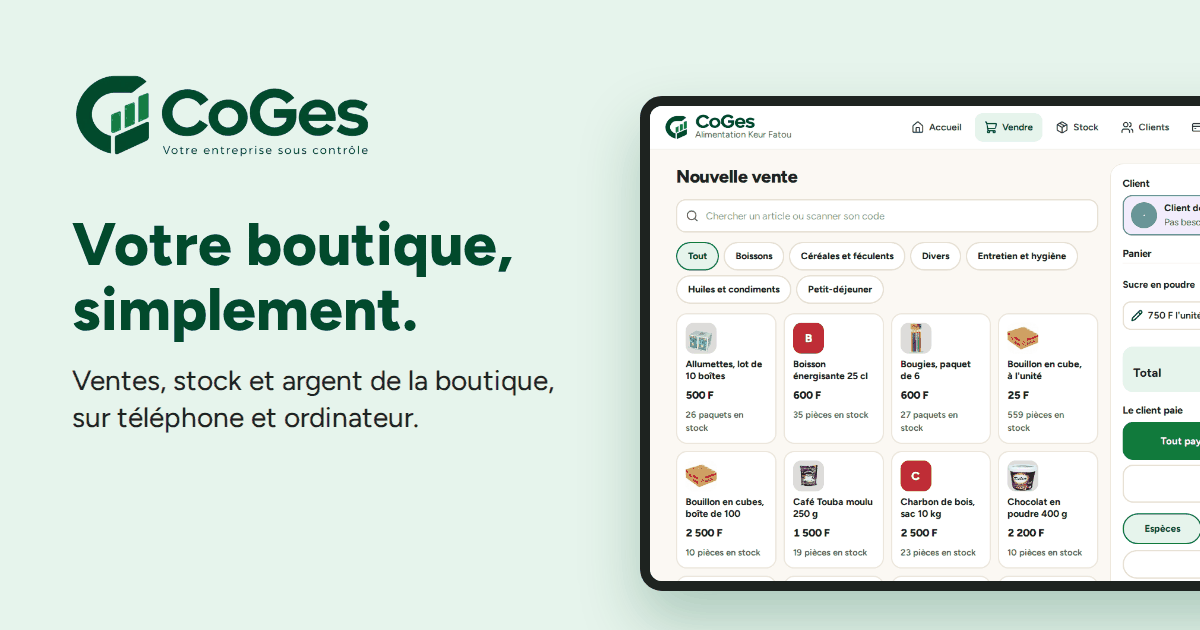
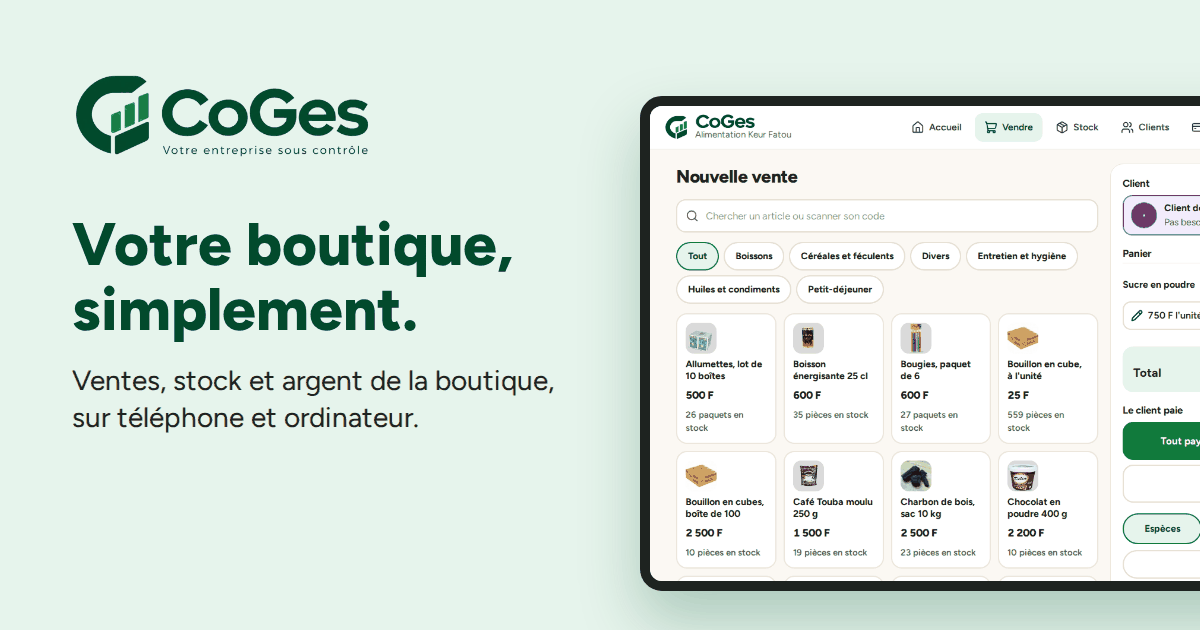
feat(front): energy drink and charcoal photos in the till capture (prompt 39, block P)
Every article visible in the desktop capture now has its photo. The
capture test gets two minutes for the twelve uploads.

diff --git a/frontend/e2e/captures-vitrine.spec.ts b/frontend/e2e/captures-vitrine.spec.ts
@@ -81,6 +81,8 @@ test.describe("captures de la vitrine", () => {
   test.use({ colorScheme: "light" });
 
   test("ordinateur : la caisse, avec les photos des articles", async ({ page, request }) => {
+    // Une douzaine d'envois de photos, puis le premier rendu de la caisse.
+    test.setTimeout(120_000);
     await page.setViewportSize({ width: 1280, height: 800 });
     await page.goto("/login");
     await loginThroughUi(page, DEMO);

diff --git a/docs/decisions/0123-pages-d-entree-navigation-inscription-theme-clair.md b/docs/decisions/0123-pages-d-entree-navigation-inscription-theme-clair.md
@@ -105,8 +105,9 @@ Ni l'authentification ni l'inscription ne changent (`proxy.ts`, `coges_known`, a
   et des marques pour un usage commercial. Les photos sont publiées telles quelles, filigrane
   compris. **Retirer la capture si cet accord tombe.**
 - Elles sont rangées dans `frontend/e2e/photos-demo/<référence de la démo>.jpg` (JPEG à
-  85 %, 230 Ko en tout). Correspondances : riz 25 kg, huile 5 L, bouillon (boîte et unité),
-  sucre, soda, allumettes, bougies, café Touba, chocolat, savon.
+  85 %, 270 Ko en tout). Correspondances : riz 25 kg, huile 5 L, bouillon (boîte et unité),
+  sucre, soda, boisson énergisante, allumettes, bougies, café Touba, chocolat, charbon de bois,
+  savon.
 - `e2e/captures-vitrine.spec.ts` passe par le **vrai chemin** : `PUT /products/{id}/photo` du
   gérant de la démo, vers le faux Cloudinary de l'API des parcours (ADR 0121). Le navigateur
   reçoit le fichier local à la place de `res.cloudinary.com`, sans réseau. Les photos sont
@@ -114,6 +115,7 @@ Ni l'authentification ni l'inscription ne changent (`proxy.ts`, `coges_known`, a
   photo (vérifié en base).
 - La nouvelle `public/vitrine/apercu-ordinateur.webp` (59 Ko) **remplace** l'ancienne, et
   l'image de partage (`partage.png`, refaite à partir de la même capture) suit. La grille,
-  classée par ordre alphabétique, montre six vignettes photo et trois carrés colorés : c'est
-  le vrai rendu d'une boutique dont tous les articles n'ont pas de photo. La capture du
+  classée par ordre alphabétique, montre une photo sur chacun des huit articles visibles
+  (boisson énergisante et charbon de bois ajoutés le 2026-11-13, même accord). Le délai du
+  test passe à 2 minutes pour les douze envois. La capture du
   téléphone ne change pas. Le texte de remplacement cite désormais les photos.
